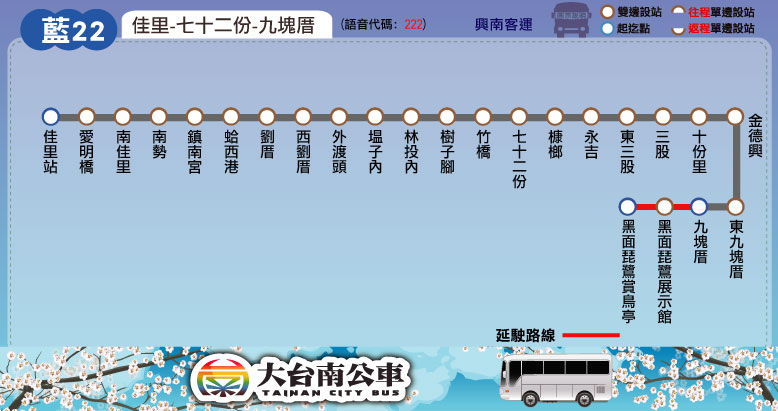
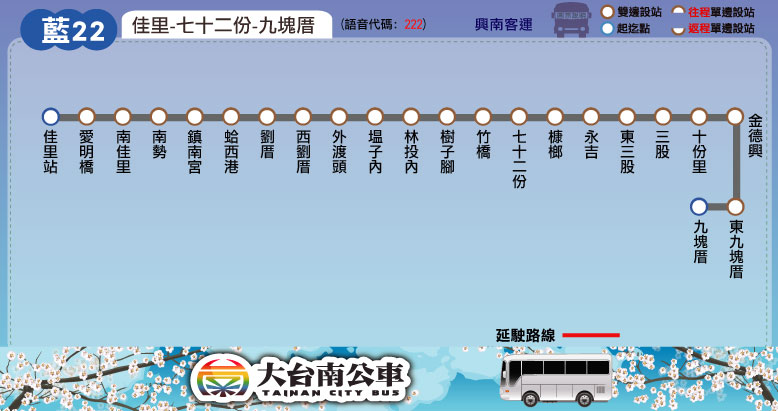
路線更新：藍22 取消延駛黑面琵鷺賞鳥亭

Changed region(s): [[0.7712, 0.4672, 0.8946, 0.7883]]

diff --git a/route/fare_and_time/blue_22.js b/route/fare_and_time/blue_22.js
@@ -1,4 +1,4 @@
-blue_22_interval_name = ["佳里","塭子內","樹林","槺榔口","永吉","三股","十份里","金德興","九塊厝","賞鳥區"];
+blue_22_interval_name = ["佳里","塭子內","樹林","槺榔口","永吉","三股","十份里","金德興","九塊厝"];
 blue_22_interval_stop = [
 ["佳里站","愛明橋","南佳里","南勢","鎮南宮"], // 佳里
 ["蚶西港","劉厝","西劉厝","外渡頭","塭子內","林投內"], // 塭子內
@@ -8,8 +8,7 @@ blue_22_interval_stop = [
 ["東三股","三股"], // 三股
 ["十份里"], // 十份里
 ["金德興"], // 金德興
-["東九塊厝","九塊厝"], // 九塊厝
-["黑面琵鷺展示館","黑面琵鷺賞鳥亭"] // 賞鳥區
+["東九塊厝","九塊厝"]
 ];
 blue_22_fare = [
 [26],
@@ -20,16 +19,13 @@ blue_22_fare = [
 [46,26,26,26,26,26],
 [52,30,26,26,26,26,26],
 [55,34,26,26,26,26,26,26],
-[59,37,28,26,26,26,26,26,26],
-[72,50,41,35,30,26,26,26,26,26]
+[59,37,28,26,26,26,26,26,26]
 ];
 // format = [time at the start stop] or
 // [time, other] or
 // [time, start_stop, end_stop, other]
-blue_22_main_stop_name = ["佳里","南勢","劉厝","塭子內","樹子腳","七十二份","永吉","三股","九塊厝","黑面琵鷺<br />賞鳥亭"];
-blue_22_main_stop_time_consume = [0, 4, 7, 10, 12, 16, 19, 22, 30, 35];
-blue_22_important_stop = [0, 8, 9]; // 佳里, 九塊厝, 黑面琵鷺賞鳥亭
-blue_22_time_go = [["09:40",0,8],["13:00",0,8],["18:30",0,8]];
-blue_22_time_return = [["10:25",8,0],["13:50",8,0],["19:15",8,0]];
-blue_22_bird_time_go = [["09:40"],["13:00"],["18:30"]];
-blue_22_bird_time_return = [["10:25"],["13:50"],["19:15"]];
+blue_22_main_stop_name = ["佳里","南勢","劉厝","塭子內","樹子腳","七十二份","永吉","三股","九塊厝"];
+blue_22_main_stop_time_consume = [0, 4, 7, 10, 12, 16, 19, 22, 30];
+blue_22_important_stop = [0, 8]; // 佳里, 九塊厝
+blue_22_time_go = [["09:40"],["13:00"],["18:30"]];
+blue_22_time_return = [["10:25"],["13:50"],["19:15"]];

diff --git a/blue/blue_22.html b/blue/blue_22.html
@@ -8,10 +8,7 @@
 	route_file_name = 'blue_22';
 	route_type = 'blue';
 	route_interval = ['佳里','七十二份','九塊厝'];
-	route_start_stop = '佳里';
-	route_end_stop = '九塊厝/黑面琵鷺賞鳥亭';
 </script>
-<link href="../css/radio_style.css" rel="stylesheet" />
 <script src="../tools/web_model.js"></script> 
 <script type="text/javascript">
 	header_code();
@@ -21,17 +18,9 @@
 <script type="text/javascript">
 	block_header();
 	block_route_map(null);
-	block_route_info(route_interval,'興南客運','','里程計費','http://2384.tainan.gov.tw:8080/AGPSRemoteQuery3/ajaxBus.jsp?pathId=1222&locale=zh_TW',[['5月~9月','normal'],['10月~4月延駛賞鳥區','bird']]);
+	block_route_info(route_interval,'興南客運','','里程計費','http://2384.tainan.gov.tw:8080/AGPSRemoteQuery3/ajaxBus.jsp?pathId=1222&locale=zh_TW');
 	block_fare(0, null);
-	var today_date = new Date(); // get the date today
-	var today_month = today_date.getMonth() + 1; // get the month today
-	if( 5 <= today_month && today_month <= 9 ){ // get the month today
-		mutiple_list = [['<font color="#0000AA">5月~9月</font>','normal'],['<font color="#CC0000">10月~4月延駛賞鳥區</font>','bird']];
-	}
-	else{
-		mutiple_list = [['<font color="#CC0000">10月~4月延駛賞鳥區</font>','bird'],['<font color="#0000AA">5月~9月</font>','normal']];
-	}
-	block_multiple_time_schedule(mutiple_list,'');
+	block_time_schedule('佳里','九塊厝','');
 	block_transfer(transfer_jiali + transfer_jiukuaicuo);
 	block_copyright();
 </script>
